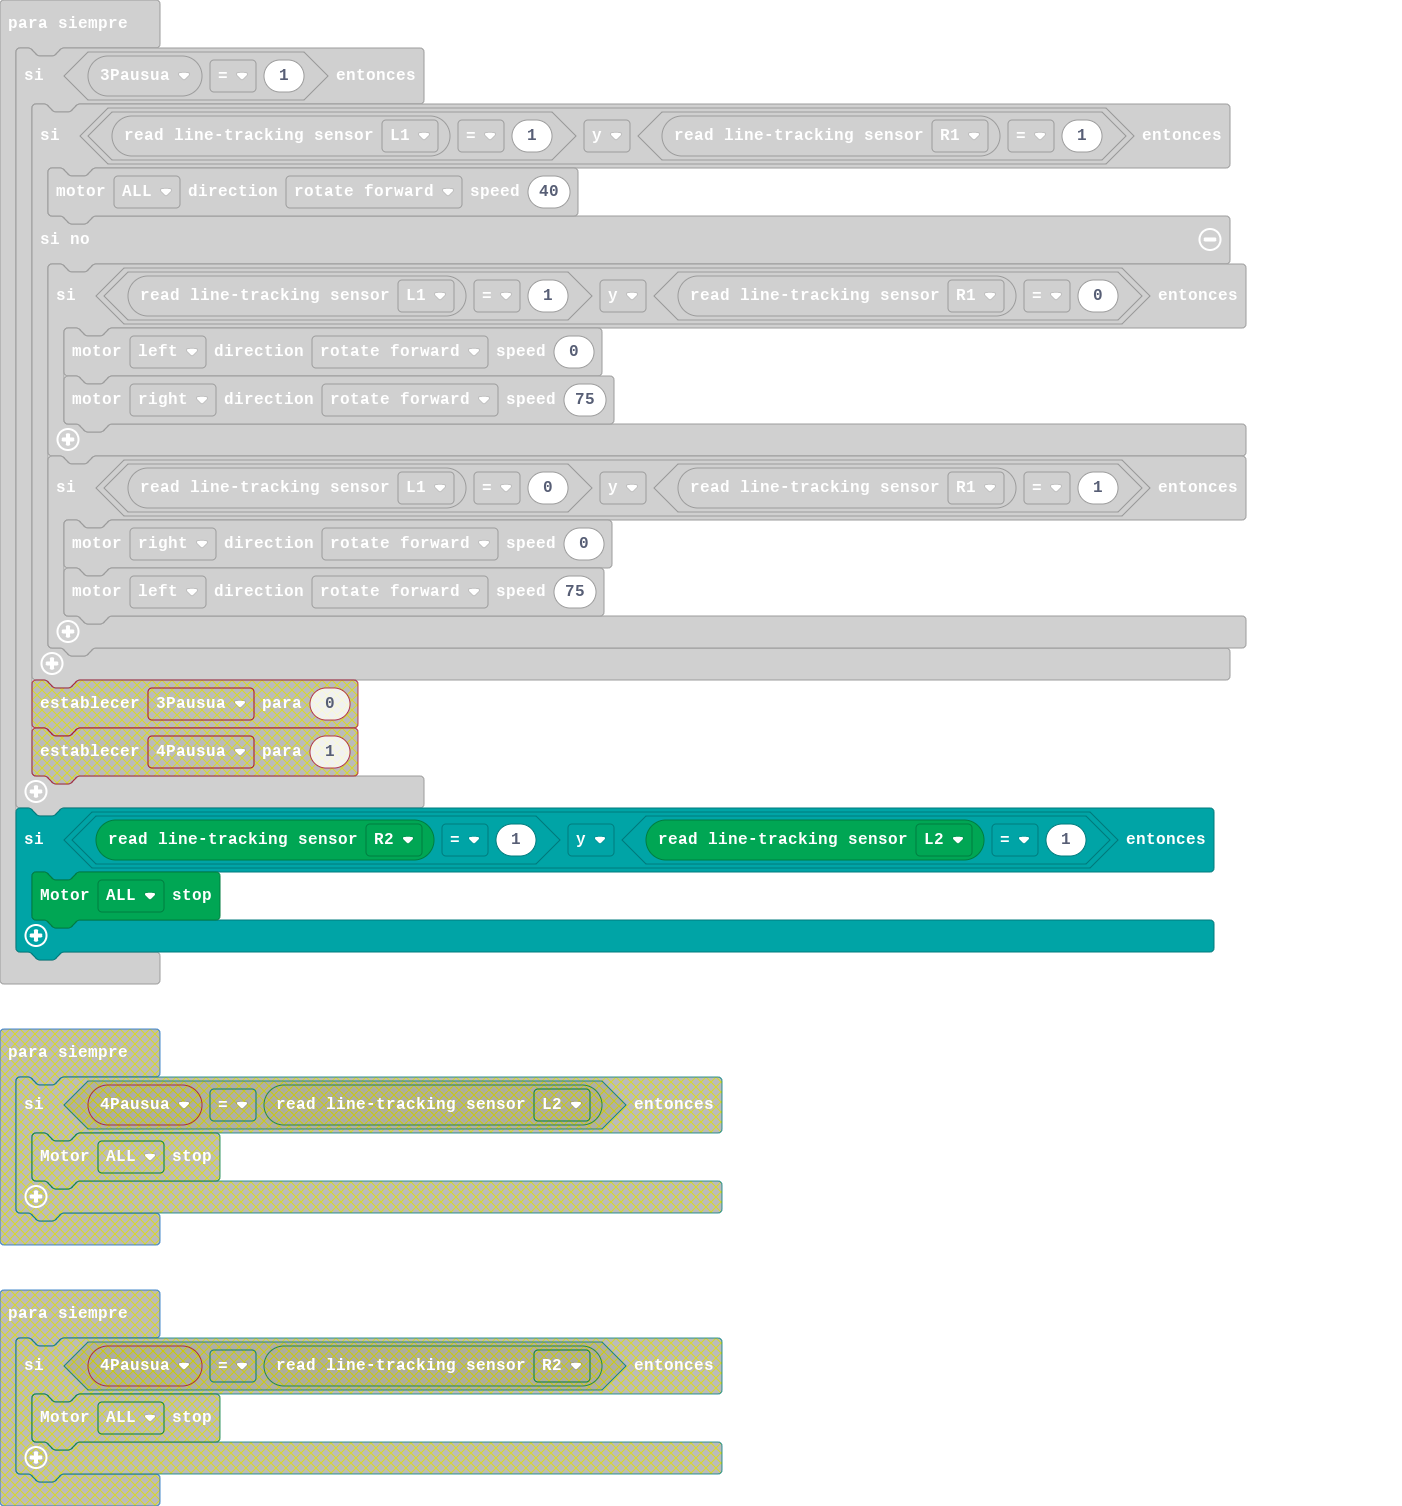
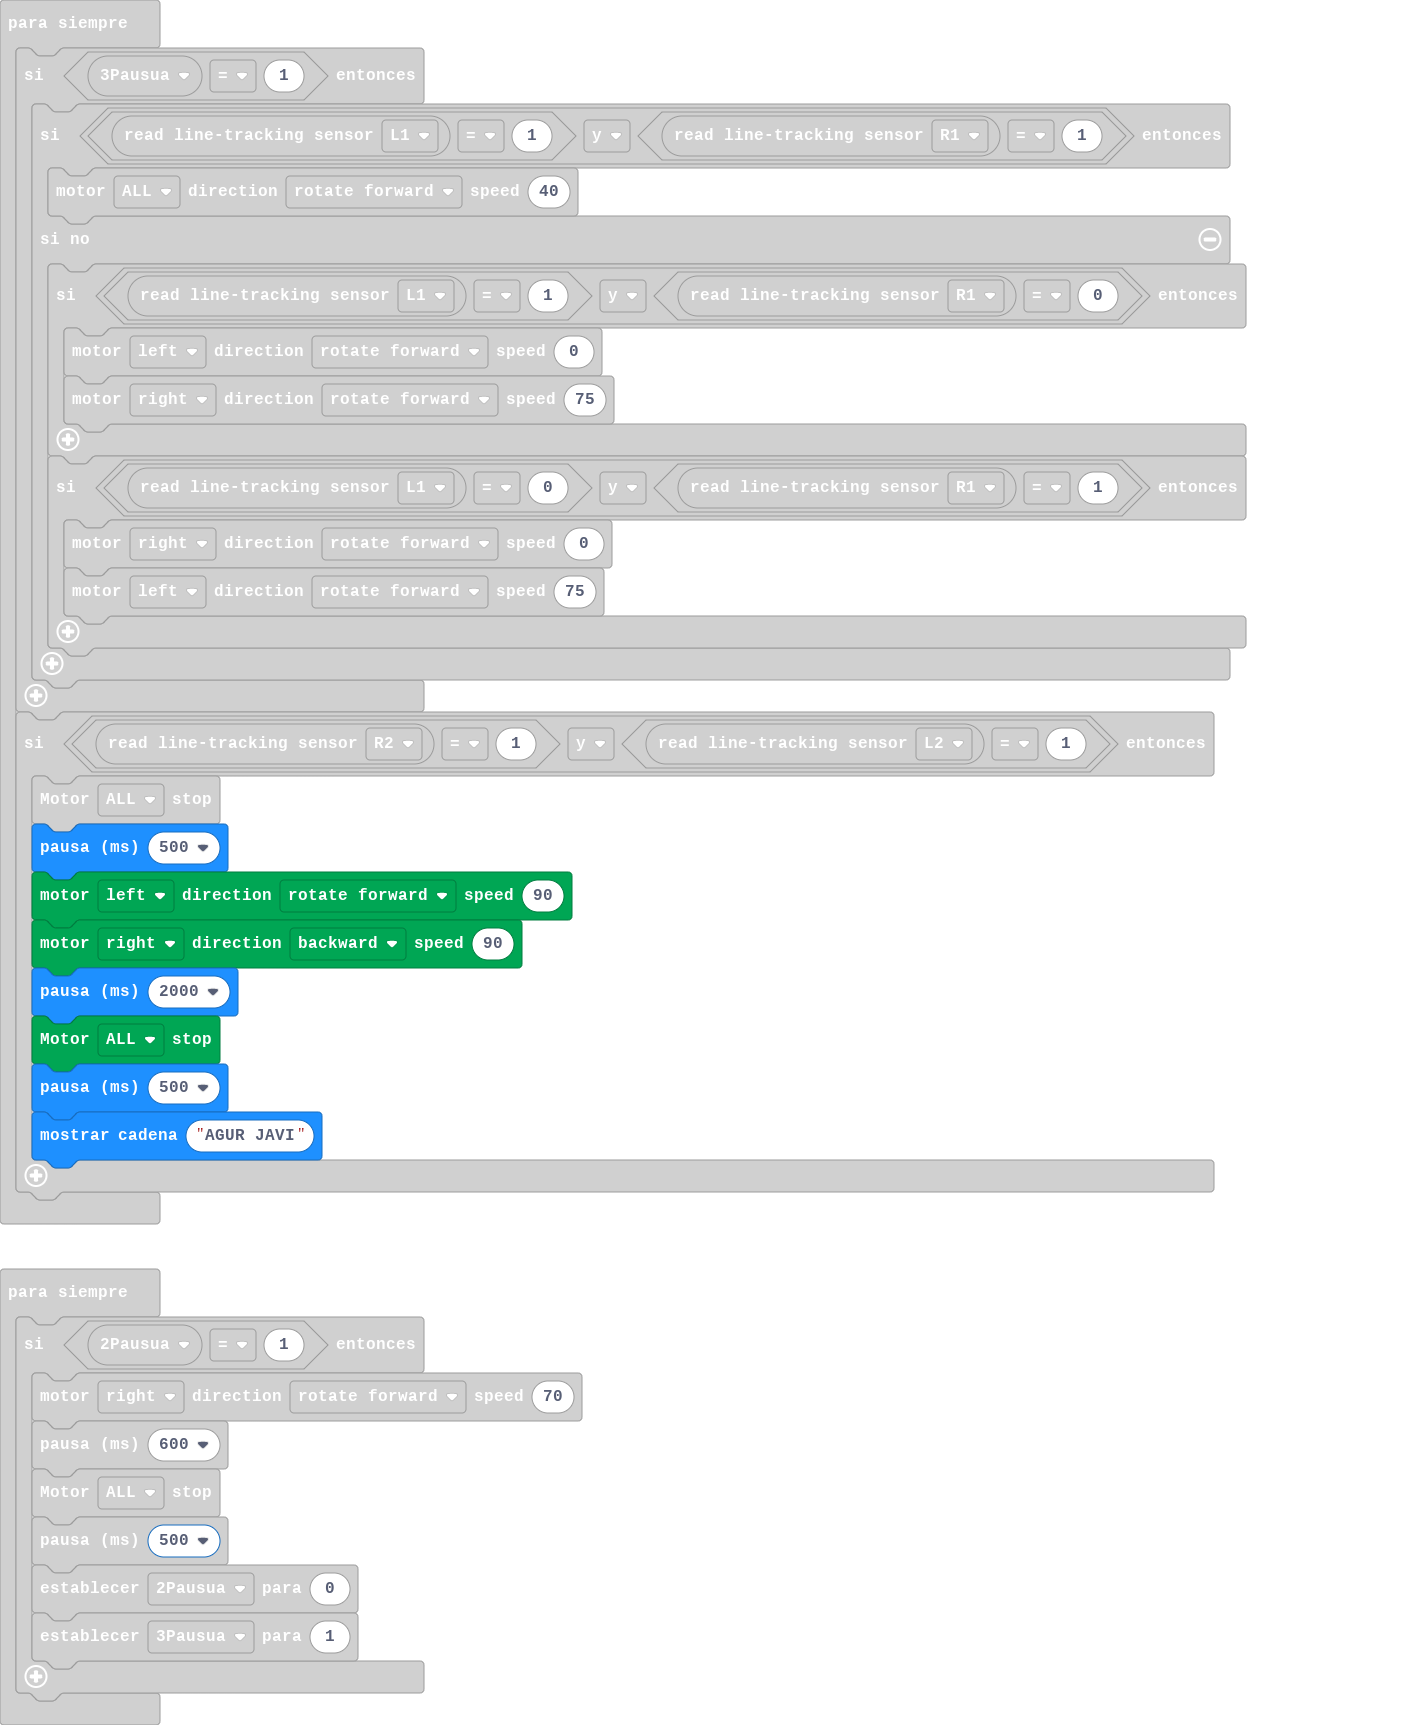
Actualizar main.blocks, main.ts

diff --git a/main.ts b/main.ts
@@ -19,6 +19,13 @@ basic.forever(function () {
     }
     if (DFRobotMaqueenPlus.readPatrol(Patrol.R2) == 1 && DFRobotMaqueenPlus.readPatrol(Patrol.L2) == 1) {
         DFRobotMaqueenPlus.mototStop(Motors.ALL)
+        basic.pause(500)
+        DFRobotMaqueenPlus.mototRun(Motors.M1, Dir.CW, 90)
+        DFRobotMaqueenPlus.mototRun(Motors.M2, Dir.CCW, 90)
+        basic.pause(2000)
+        DFRobotMaqueenPlus.mototStop(Motors.ALL)
+        basic.pause(500)
+        basic.showString("AGUR JAVI")
     }
 })
 basic.forever(function () {
@@ -42,7 +49,7 @@ basic.forever(function () {
         DFRobotMaqueenPlus.mototRun(Motors.M2, Dir.CW, 70)
         basic.pause(600)
         DFRobotMaqueenPlus.mototStop(Motors.ALL)
-        basic.pause(1500)
+        basic.pause(500)
         _2Pausua = 0
         _3Pausua = 1
     }
